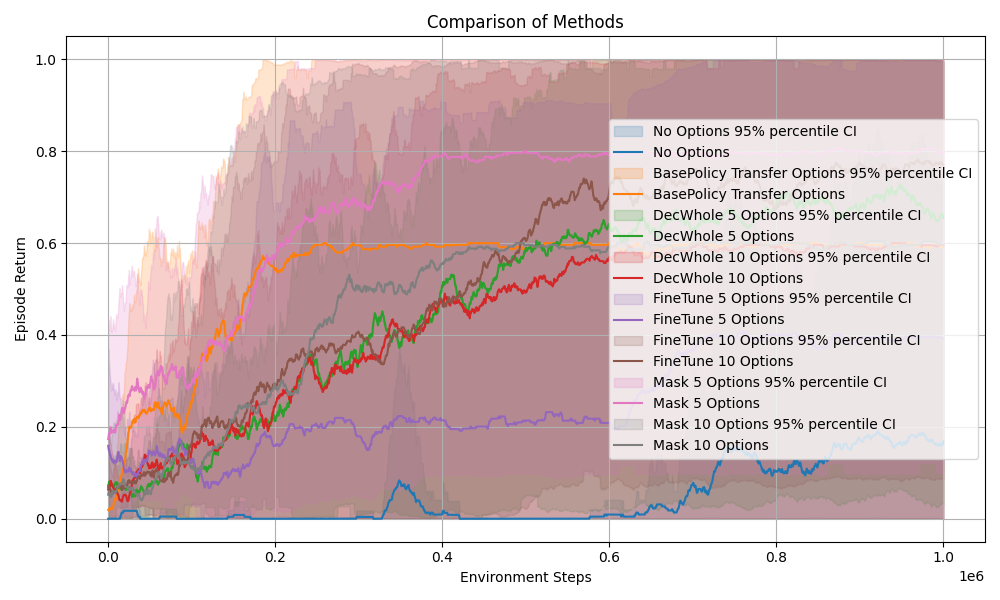
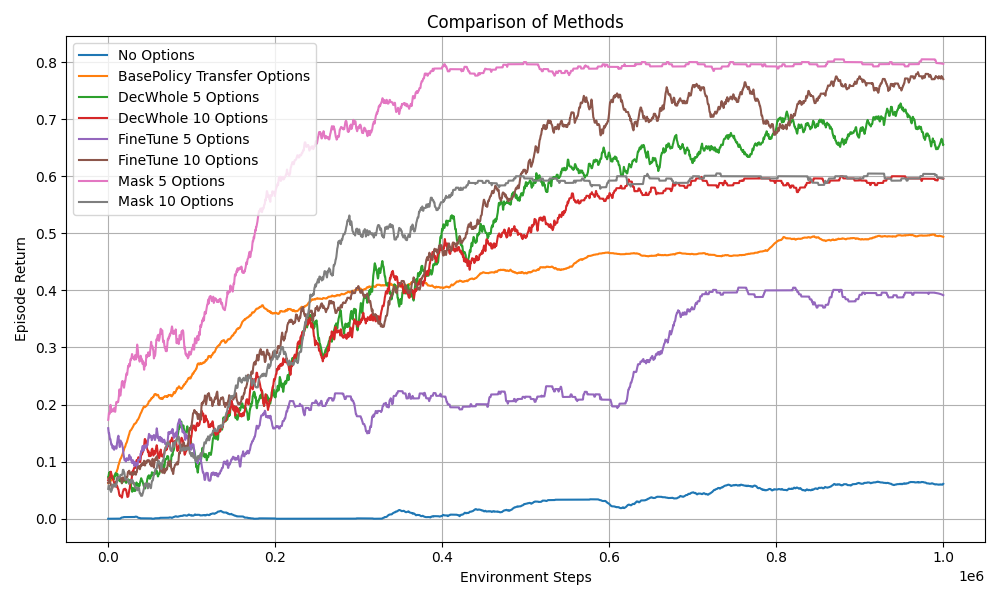
parallel

diff --git a/Scripts/learn_options.py b/Scripts/learn_options.py
@@ -3,10 +3,12 @@ import torch
 import pickle
 from tqdm import tqdm
 from functools import partial
-from concurrent.futures import ProcessPoolExecutor
+from concurrent.futures import ThreadPoolExecutor
 from torch.utils.tensorboard import SummaryWriter
+from multiprocessing import Pool
 
-from Experiments.LearnOptions import extract_trajectory, generate_subtrajectories, learn_mask, find_best_subset, find_best_subset_stochastic, fine_tune_policy
+
+from Experiments.LearnOptions import extract_trajectory, generate_subtrajectories, learn_mask, fine_tune_policy, find_best_subset_stochastic_parallel
 from Experiments.LevinLoss import levin_loss_continuous_with_maxlen
 from Environments.GetEnvironment import get_env
 from Agents.PPOAgent import PPOAgent
@@ -35,19 +37,68 @@ def loss_fn(all_traj, options_lst, tol=1e-3):
 
 def parallel_loss_fn(all_traj, options_lst, num_workers=4, tol=1e-3):
     """
-    Parallel computation of loss over all_traj using a picklable partial.
+    Parallel computation of loss over all_traj using threads
+    (so it can be called from inside a multiprocessing worker).
     """
-    # bake in options_lst and tol
     worker_fn = partial(
         levin_loss_continuous_with_maxlen,
         options=options_lst,
         tol=tol
     )
     n = len(all_traj)
-    with ProcessPoolExecutor(max_workers=num_workers) as pool:
-        # map the single-argument worker_fn over all_traj
+    # use threads rather than processes
+    with ThreadPoolExecutor(max_workers=num_workers) as pool:
         losses = list(pool.map(worker_fn, all_traj))
     return sum(losses) / n
+
+def train_one_option(args):
+    """
+    Worker function to process one (i,j,sub_traj) task.
+    Returns either an Option or None.
+    """
+    i, j, sub_traj1_env, sub_traj2_env, agent, sub_traj, baseline, mask_epochs, tol = args
+    # create a local tqdm just for the epochs if you really need it,
+    # otherwise you can omit per-task bars.
+    if baseline == "mask":
+        mask = learn_mask(agent, sub_traj,
+                          num_epochs=mask_epochs,
+                          tol=tol)
+        if mask is None:
+            return None
+        info = {
+            "org_policy_env": sub_traj1_env,
+            "sub_traj_env": sub_traj2_env,
+        }
+        return Option(agent.actor_critic.actor_mean,
+                      mask,
+                      len(sub_traj),
+                      info=info)
+
+    elif baseline == "tune":
+        actor_critic = fine_tune_policy(agent, sub_traj,
+                                        num_epochs=mask_epochs,
+                                        tol=tol)
+        if actor_critic is None:
+            return None
+        info = {
+            "org_policy_env": sub_traj1_env,
+            "sub_traj_env": sub_traj2_env,
+        }
+        return Option(actor_critic.actor_mean,
+                      0,
+                      len(sub_traj),
+                      info=info)
+
+    elif baseline == "decwhole":
+        info = {
+            "org_policy_env": sub_traj1_env,
+            "sub_traj_env": sub_traj2_env,
+        }
+        return Option(agent.actor_critic.actor_mean,
+                      0,
+                      len(sub_traj),
+                      info=info)
+    return None
 
 def train_options(args):
     exp_dir = os.path.join(args.res_dir, args.option_exp_name)
@@ -108,57 +159,35 @@ def train_options(args):
         
         # Train the masks or fine-tuning for options
         if not os.path.exists(os.path.join(exp_dir, "all_options.pt")):        
-            print("\n\n", "*"*20, "TRAINING MASKS", "*"*20)
-            # get a mask for each sub-trajectory
-
-            options_lst = []
+            print("\n\n", "*"*20, "TRAINING OPTIONS", "*"*20)
+            # get an option for each sub-trajectory
             
-            # count total masks (i.e. total sub_trajs across all agent/traj pairs, excluding i==j)
-            total_masks = (len(all_sub_trajectories) - 1) * sum(len(d["sub_traj"]) for d in all_sub_trajectories)
-            mask_pbar = tqdm(total=total_masks, desc="Masks", position=0)
+            tasks = []
             for i, sub_traj1 in enumerate(all_sub_trajectories):
-                agent = sub_traj1["agent"]
-                for j, sub_traj2  in enumerate(all_sub_trajectories):
+                for j, sub_traj2 in enumerate(all_sub_trajectories):
                     if i == j:
                         continue
-                    for sub_traj in sub_traj2["sub_traj"]:
-                        epoch_pbar = tqdm(
-                            total=args.mask_epochs,
-                            desc=f"Agent {i}, Traj {j}",
-                            leave=False,
-                            position=1,
-                        )
-                        
-                        if args.baseline == "mask":
-                            mask = learn_mask(agent, sub_traj, num_epochs=args.mask_epochs, pbar=epoch_pbar, tol=args.action_dif_tolerance)
-                            epoch_pbar.close()
-                            if mask is not None: # if the mask is None, the learning wasn't successful
-                                info = {
-                                    "org_policy_env": sub_traj1["env_name"],
-                                    "sub_traj_env": sub_traj2["env_name"],
-                                }
-                                options_lst.append(Option(agent.actor_critic.actor_mean, mask, len(sub_traj), info=info))
-                        
-                        elif args.baseline == "tune":
-                            actor_critic = fine_tune_policy(agent, sub_traj, num_epochs=args.mask_epochs, pbar=epoch_pbar, tol=args.action_dif_tolerance)
-                            epoch_pbar.close()
-                            if actor_critic is not None: # if the mask is None, the learning wasn't successful
-                                info = {
-                                    "org_policy_env": sub_traj1["env_name"],
-                                    "sub_traj_env": sub_traj2["env_name"],
-                                }
-                                options_lst.append(Option(actor_critic.actor_mean, 0, len(sub_traj), info=info))
-                        
-                        elif args.baseline == "decwhole":
-                            epoch_pbar.close()
-                            info = {
-                                "org_policy_env": sub_traj1["env_name"],
-                                "sub_traj_env": sub_traj2["env_name"],
-                            }
-                            options_lst.append(Option(agent.actor_critic.actor_mean, 0, len(sub_traj), info=info))
-                            
-                        mask_pbar.update(1)
-            mask_pbar.close()      
+                    for sub in sub_traj2["sub_traj"]:
+                        tasks.append((
+                            i,
+                            j,
+                            sub_traj1["env_name"],
+                            sub_traj2["env_name"],
+                            sub_traj1["agent"],
+                            sub,
+                            args.baseline,
+                            args.mask_epochs,
+                            args.action_dif_tolerance
+                        ))
+
+            options_lst = []
+            # 2) Spawn a pool and process with a progress bar
+            with Pool(processes=args.num_worker) as pool:
+                for opt in tqdm(pool.imap_unordered(train_one_option, tasks),
+                                total=len(tasks),
+                                desc="Building Options"):
+                    if opt is not None:
+                        options_lst.append(opt)
             torch.save(options_lst, os.path.join(exp_dir, "all_options.pt"))
         else:
             print("\n\n", "*"*20, "LOADING MASKS", "*"*20)
@@ -172,9 +201,18 @@ def train_options(args):
         file_name = f"selected_options_nolimit.pt" if args.max_num_options is None else f"selected_options_{args.max_num_options}.pt"
         if not os.path.exists(os.path.join(exp_dir, file_name)):
             print("\n\n", "*"*20, "SELECTING BEST OPTIONS", "*"*20)
-            best_options, best_loss = find_best_subset_stochastic(options_lst, lambda x: parallel_loss_fn(all_trajectories, x, tol=args.action_dif_tolerance), 
-                                                                max_iters=args.hc_iterations, restarts=args.hc_restarts, neighbor_samples=args.hc_neighbor_samples,
-                                                                max_size=args.max_num_options)
+            loss_fn = partial(
+                parallel_loss_fn,
+                all_trajectories,
+                tol=args.action_dif_tolerance
+            )
+            best_options, best_loss = find_best_subset_stochastic_parallel(options_lst, 
+                                                                           loss_fn=loss_fn, 
+                                                                            max_iters=args.hc_iterations, 
+                                                                            restarts=args.hc_restarts, 
+                                                                            neighbor_samples=args.hc_neighbor_samples,
+                                                                            max_size=args.max_num_options, 
+                                                                            num_workers=args.num_worker)
             
             print("Best loss: ", best_loss)
             torch.save(best_options, os.path.join(exp_dir, file_name))
@@ -193,7 +231,7 @@ def test_options(args):
     print(f"Loaded Options from: {os.path.join(option_dir, file_name)}")
     print("Num options: ", len(best_options))
     
-    test_option_dir = f"{option_dir}_{args.test_option_env_name}_{file_name}"
+    test_option_dir = f"{option_dir}_{args.test_option_env_name}_{file_name[:-3]}"
 
     env = get_env(env_name=args.test_option_env_name,
                   env_params=args.test_option_env_params,

diff --git a/config.py b/config.py
@@ -118,12 +118,12 @@ class arguments:
     # ----- train experiment settings -----
     agent_class:              str                = "PPOAgent" # PPOAgent, ElitePPOAgent, RandomAgent, SACAgent, DDPGAgent
     seeds                                        = list(range(60_000, 31*10_000, 10_000))
-    exp_total_steps:          int                = 300_000
+    exp_total_steps:          int                = 1_000_000
     exp_total_episodes:       int                = 0
     save_results:             bool               = True
-    nametag:                  str                = "sparse_success"#+datetime.datetime.now().strftime("%Y%m%d_%H%M%S")
+    nametag:                  str                = "sparse_success_No_Options"#+datetime.datetime.now().strftime("%Y%m%d_%H%M%S")
 
-    training_env_name:        str                = "Maze_1m" # Medium_Maze, Large_Maze, Hard_Maze
+    training_env_name:        str                = "Large_Maze" # Medium_Maze, Large_Maze, Hard_Maze
     training_env_params                          = {"continuing_task": False, "reward_type": "sparse"} #{"include_cfrc_ext_in_observation":False}
     training_env_wrappers                        = default_env_wrappers(training_env_name)[0]
     training_wrapping_params                     = default_env_wrappers(training_env_name)[1]
@@ -148,7 +148,7 @@ class arguments:
     lamda:                    float              = 0.95
 
     epochs:                   int                = 10
-    total_steps:              int                = 300_000
+    total_steps:              int                = 1_000_000
     rollout_steps:            int                = 2048
     num_minibatches:          int                = 32
     
@@ -182,7 +182,7 @@ class arguments:
     interpolation_resolution: int                = 100_000
 
     # ----- Option setting -----
-    tmp_seed = 280000 #int(os.environ.get("TMP_SEED", 10000))
+    tmp_seed = int(os.environ.get("TMP_SEED", 60000))
 
     env_agent_list                               = [
                                                     {"env_name": "Maze_1m", 
@@ -215,10 +215,10 @@ class arguments:
                                                      
                                                     ]
     option_save_results:      bool               = True
-    option_exp_name:          str                = f"Options_FineTune_Maze_m_Seed_{tmp_seed}"
+    option_exp_name:          str                = f"Options_DecWhole_Maze_m_Seed_{tmp_seed}"
     max_num_options:          int                = None #int(os.environ.get("MAX_NUM_OPTIONS", 5))
     
-    # ----- option experiment settings -----
+    # ----- train option experiment settings -----
     sub_trajectory_min_len:   int                = 2
     sub_trajectory_max_len:   int                = 24
     mask_epochs:              int                = 300 # number of epochs to train the mask
@@ -227,10 +227,11 @@ class arguments:
     hc_restarts:              int                = 500 # hill climbing restarts
     hc_neighbor_samples:      int                = 100 # number of neighbors to sample for hill climbing
     action_dif_tolerance:     float              = 0.4 # tolerance for action difference
-    baseline:                 str                = "tune" #mask, tune, decwhole, transfer
+    baseline:                 str                = "decwhole" #mask, tune, decwhole, transfer
+    num_worker:               int                = 32
 
     # ----- test option experiment settings -----
-    test_option_env_name:     str                = "Large_Maze" #Medium_Maze, Large_Maze, Hard_Maze
+    test_option_env_name:     str                = os.environ.get("TEST_OPTION_ENV_NAME", "Hard_Maze") #Medium_Maze, Large_Maze, Hard_Maze
     test_option_env_params                       = {"continuing_task": False, "reward_type": "sparse"}
     test_option_env_wrappers                     = default_env_wrappers(test_option_env_name)[0]
     test_option_wrapping_params                  = default_env_wrappers(test_option_env_name)[1]

diff --git a/Experiments/LearnOptions.py b/Experiments/LearnOptions.py
@@ -5,6 +5,7 @@ import random
 from tqdm import tqdm
 import numpy as np
 import copy
+from multiprocessing import Pool
 
 def extract_trajectory(agent, env):
     """
@@ -169,7 +170,6 @@ def fine_tune_policy(agent, sub_traj, num_epochs=100, lr=1e-2, pbar=None, tol=1e
     return actor_critic_copy
 
 
-
 def find_best_subset(options, loss_fn, max_iters=100, restarts=10):
     """
     Find a subset of `options` that (approximately) minimizes `loss_fn` using
@@ -292,4 +292,81 @@ def find_best_subset_stochastic(
                 # and continue hopping back to the next restart
                 break
     pbar.close()
+    return best_subset, best_loss
+
+
+def _one_restart(args):
+    """
+    Perform one stochastic hill‐climb restart.
+    Returns (best_subset, best_loss).
+    """
+    options, loss_fn, max_iters, neighbor_samples, max_size, seed = args
+    random.seed(seed)
+
+    # start from empty (or random size if you like)
+    subset = set()
+    curr_loss = loss_fn([])
+    best_subset = list(subset)
+    best_loss = curr_loss
+
+    for _ in range(max_iters):
+        print(_)
+        candidates = random.sample(options, 
+                                k=min(neighbor_samples, len(options)))
+        improved = False
+        for opt in candidates:
+            if opt in subset:
+                cand = list(subset - {opt})
+            else:
+                if max_size is not None and len(subset) >= max_size:
+                    continue
+                cand = list(subset | {opt})
+            cand_loss = loss_fn(cand)
+            if cand_loss < curr_loss:
+                subset, curr_loss = set(cand), cand_loss
+                improved = True
+                break
+
+        if curr_loss < best_loss:
+            best_subset, best_loss = list(subset), curr_loss
+
+        if not improved:
+            break
+
+    return best_subset, best_loss
+    
+def find_best_subset_stochastic_parallel(
+    options,
+    loss_fn,
+    max_iters=200,
+    restarts=5,
+    neighbor_samples=20,
+    max_size=None,
+    num_workers=4,
+):
+    """
+    Parallelized over restarts.
+    """
+    # prepare args for each restart (use different seeds if you want)
+    base_seed = random.randrange(1_000_000)
+    tasks = [
+        (options, loss_fn, max_iters, neighbor_samples, max_size, base_seed + r)
+        for r in range(restarts)
+    ]
+
+    best_subset, best_loss = [], float('inf')
+    no_option_loss = loss_fn([])
+
+    with Pool(processes=num_workers) as pool:
+        for subset_r, loss_r in tqdm(
+            pool.imap_unordered(_one_restart, tasks),
+            total=restarts,
+            desc="Restarts",
+            unit="run"
+        ):
+            # track global best
+            if loss_r < best_loss:
+                best_loss = loss_r
+                best_subset = subset_r
+
     return best_subset, best_loss

diff --git a/Scripts/plot.py b/Scripts/plot.py
@@ -199,6 +199,7 @@ def plot_comparison(method_patterns,
         print(f"Loading {method_name}")
         # find all matching experiment folders
         folders = glob.glob(f"{res_dir}/{pattern}")
+        print(f"{len(folders)} experiments found")
         if not folders:
             print(f"Warning: no folders match pattern {res_dir}/{pattern}")
             continue
